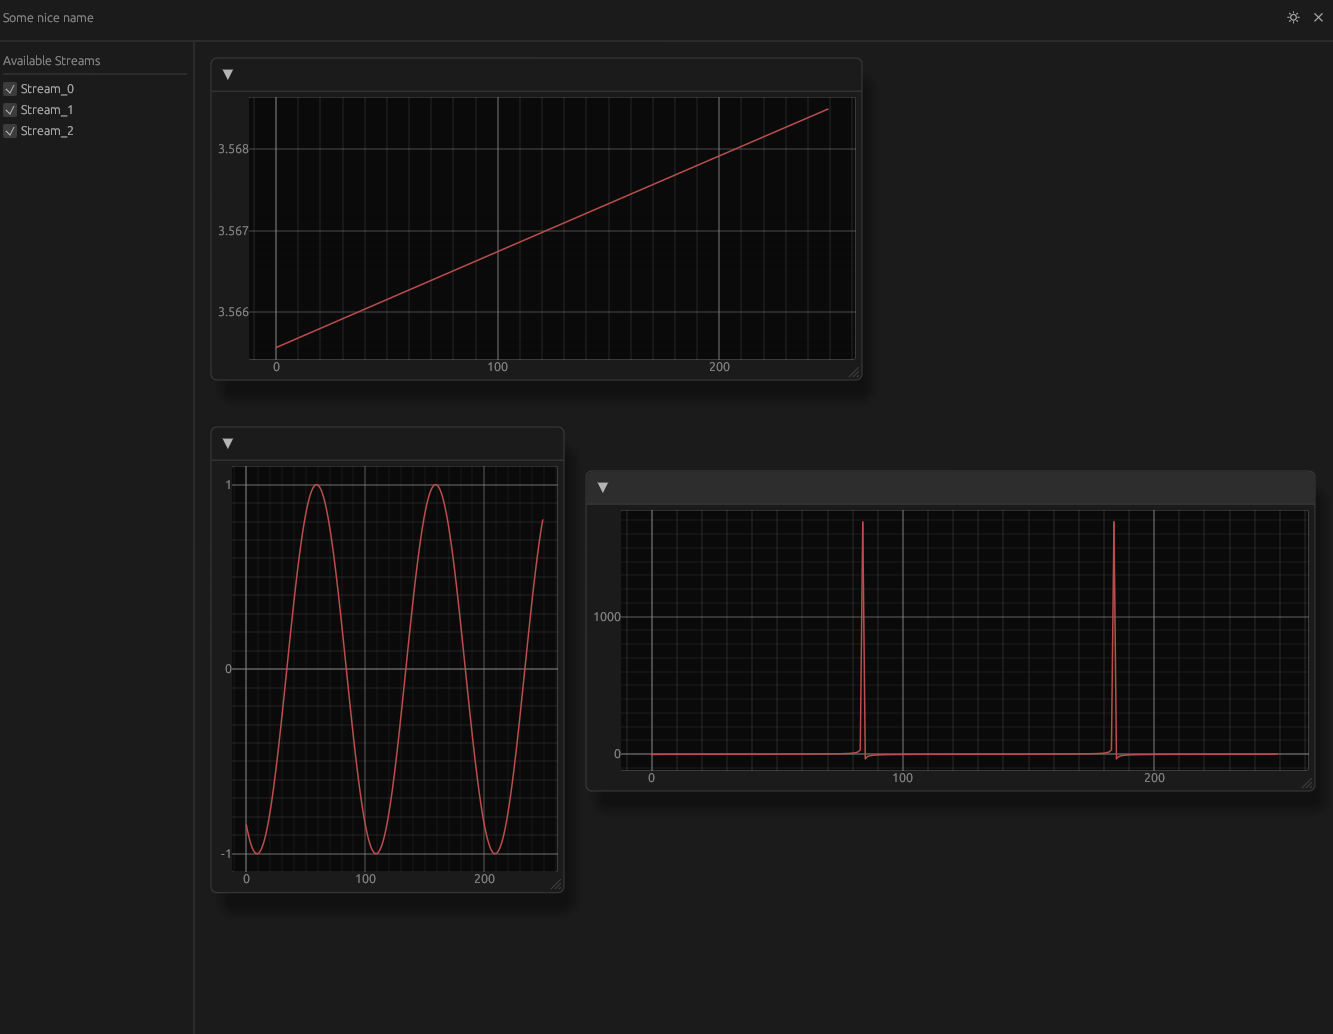
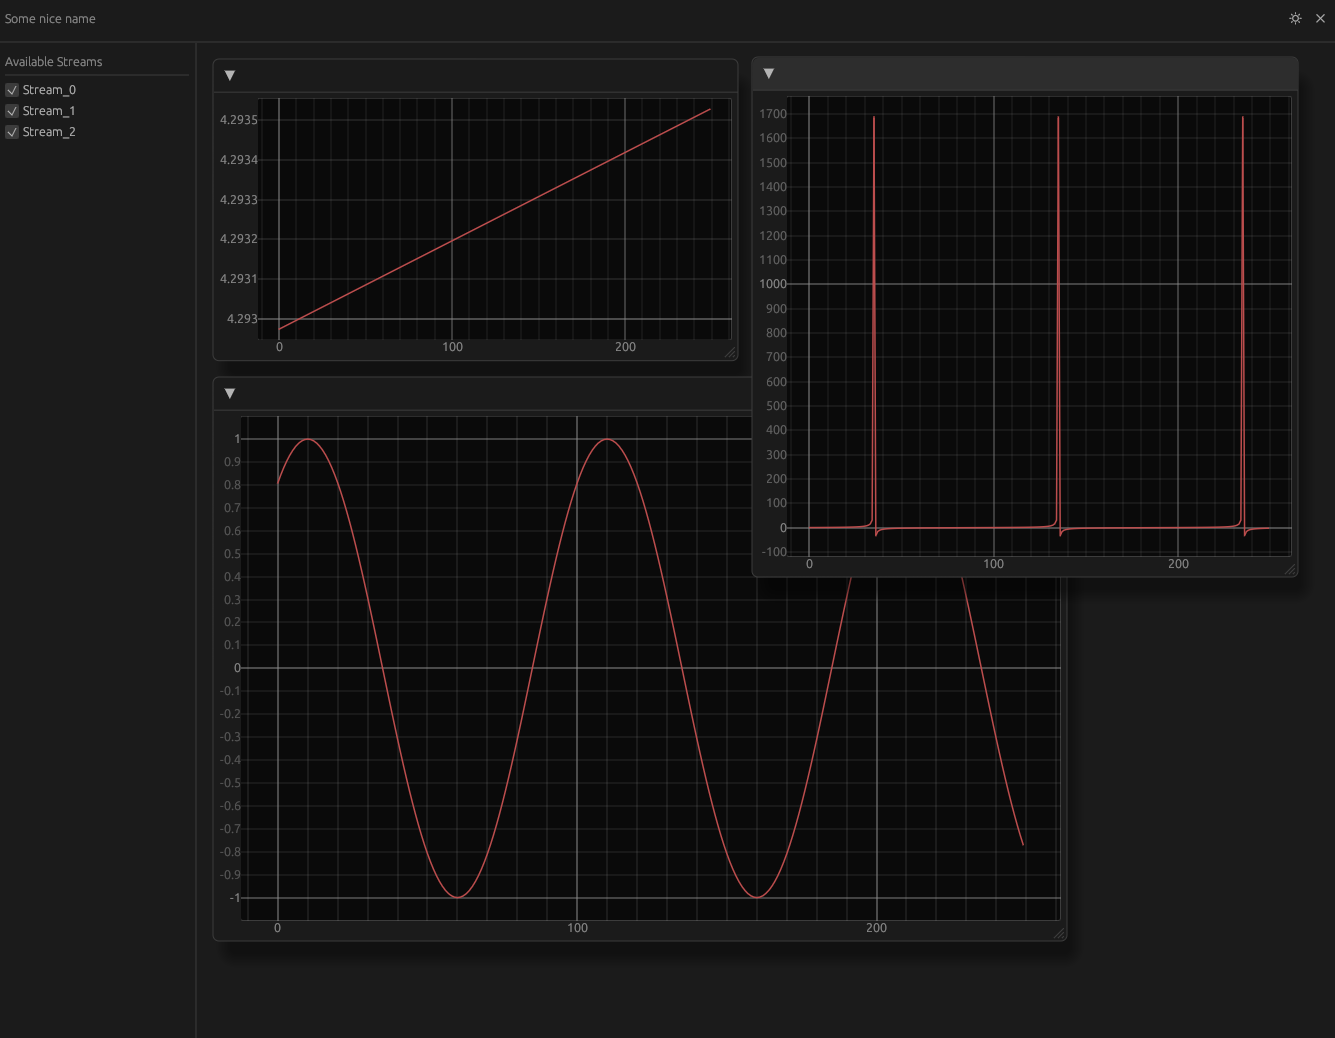
some documentation tweaks

diff --git a/src/datacontainer.rs b/src/datacontainer.rs
@@ -3,17 +3,28 @@
 use egui_plot::PlotPoints;
 use std::collections::{HashMap, VecDeque};
 
-/// A container for managing multiple data streams, their measurements, and plotting states.
-#[derive(Default)]
+/// A container for managing multiple data streams and their states.
 pub struct DataContainer {
     /// Stores measurements for each stream. The key is the stream name, and the value is a buffer (VecDeque) of measurements.
     pub measurements: HashMap<String, VecDeque<f64>>,
-    /// Tracks total number of data streams being tracked.
-    pub stream_count: usize,
-    /// The maximum number of measurements to keep.
+    /// The maximum number of measurements to keep. By default, 500;
     pub look_back: usize,
+    /// Tracks total number of data streams being inputed.
+    pub stream_count: usize,
     /// Tracks whether each stream should be plotted. The key is the stream name, and the value is a boolean.
     pub plot_tracker: HashMap<String, bool>,
+}
+
+// TODO: remove repetition here.
+impl Default for DataContainer {
+    fn default() -> Self {
+        Self {
+            measurements: Default::default(),
+            look_back: 500,
+            stream_count: Default::default(),
+            plot_tracker: Default::default(),
+        }
+    }
 }
 
 impl DataContainer {
@@ -21,29 +32,22 @@ impl DataContainer {
     ///
     /// This method adds a new measurement to the specified stream, maintaining the maximum number
     /// of measurements defined by `look_back`. It also updates the `stream_count`.
+    /// NOTE: This method automatically creates a new key for given index.
+    /// index: 0 --> key: Stream_0
     ///
     /// # Arguments
     ///
     /// * `index` - The index of the stream to update.
-    /// * `value` - The new measurement value to append.
+    /// * `value` - The new measurement to append.
     ///
     /// # Example
     ///
     /// ```
     /// let mut container = DataContainer::default();
-    /// container.look_back = 3;
-    ///
     /// container.append_values(0, 1.0);
+    ///
     /// assert_eq!(container.measurements["Stream_0"], vec![1.0].into());
     /// assert_eq!(container.stream_count, 1);
-    ///
-    /// container.append_values(0, 2.0);
-    /// container.append_values(0, 3.0);
-    /// container.append_values(0, 4.0);
-    /// assert_eq!(container.measurements["Stream_0"], vec![2.0, 3.0, 4.0].into());
-    ///
-    /// container.append_values(1, 5.0);
-    /// assert_eq!(container.stream_count, 2);
     /// ```
     pub fn append_values(&mut self, index: usize, value: f64) {
         let stream_index = format!("Stream_{index}");
@@ -55,9 +59,9 @@ impl DataContainer {
         self.stream_count = self.measurements.len();
     }
 
-    /// Retrieves plot points for a specific data stream.
+    /// Retrieves [`PlotPoints`] for a specific data stream index.
     ///
-    /// This method returns a `PlotPoints` object containing the measurements for the specified stream.
+    /// This method returns [`PlotPoints`] object containing the measurements for the specified stream.
     ///
     /// # Arguments
     ///
@@ -65,11 +69,7 @@ impl DataContainer {
     ///
     /// # Returns
     ///
-    /// A `PlotPoints` object containing the measurements for the specified stream.
-    ///
-    /// # Panics
-    ///
-    /// This method will panic if the specified stream does not exist.
+    /// A [`PlotPoints`] object containing the measurements for the specified stream index.
     ///
     /// # Example
     ///
@@ -77,8 +77,8 @@ impl DataContainer {
     /// let mut container = DataContainer::default();
     /// container.append_values(0, 1.0);
     /// container.append_values(0, 2.0);
-    ///
     /// let plot_points = container.get_plotpoints(0);
+    ///
     /// assert_eq!(plot_points.points().len(), 2);
     /// assert_eq!(plot_points.points()[0].y, 1.0);
     /// assert_eq!(plot_points.points()[1].y, 2.0);
@@ -99,6 +99,7 @@ impl DataContainer {
     ///
     /// ```
     /// let mut container = DataContainer::default();
+    /// // WARN: explicitly setting count, to be removed in future
     /// container.stream_count = 3;
     /// container.update_tracker();
     ///

diff --git a/src/main.rs b/src/main.rs
@@ -2,7 +2,7 @@ mod datacontainer;
 mod reader;
 
 use crate::datacontainer::DataContainer;
-use eframe::egui;
+use eframe::egui::{self, vec2};
 use egui_plot::{Line, Plot};
 use std::sync::{Arc, Mutex};
 use std::thread::JoinHandle;
@@ -68,14 +68,17 @@ impl App {
             if let Some(is_plotted) = payload.plot_tracker.get(&stream_key) {
                 if *is_plotted {
                     let stream_id = egui::Id::new(stream_key);
-                    egui::Window::new("").id(stream_id).show(ctx, |ui| {
-                        ui.ctx().request_repaint();
-                        let data = payload.get_plotpoints(index);
-                        let plot = Plot::new("plot");
-                        plot.show(ui, |ui| {
-                            ui.line(Line::new(data));
+                    egui::Window::new("")
+                        .id(stream_id)
+                        .default_size(vec2(512., 256.))
+                        .show(ctx, |ui| {
+                            ui.ctx().request_repaint();
+                            let data = payload.get_plotpoints(index);
+                            let plot = Plot::new("plot");
+                            plot.show(ui, |ui| {
+                                ui.line(Line::new(data));
+                            });
                         });
-                    });
                 }
             }
         }

diff --git a/src/reader.rs b/src/reader.rs
@@ -7,7 +7,7 @@ use std::thread::{self, JoinHandle};
 
 /// Parses standard input and returns custom [`DataContainer`] with a thread handle.
 ///
-/// This function creates a new `DataContainer` wrapped in an `Arc<Mutex<>>` for thread-safe
+/// This method creates a new [`DataContainer`] wrapped in an [`Arc<Mutex<>>`] for thread-safe
 /// access. It spawns a new thread that continuously reads from stdin, parses each line
 /// into floating-point values, and appends these values to the appropriate streams in
 /// the [`DataContainer`].
@@ -25,11 +25,6 @@ use std::thread::{self, JoinHandle};
 /// # Example
 ///
 /// ```
-/// use std::io;
-/// use std::sync::Arc;
-/// use std::thread;
-/// use std::time::Duration;
-///
 /// // Simulate stdin input
 /// thread::spawn(|| {
 ///     println!("1.0 2.0 3.0");
